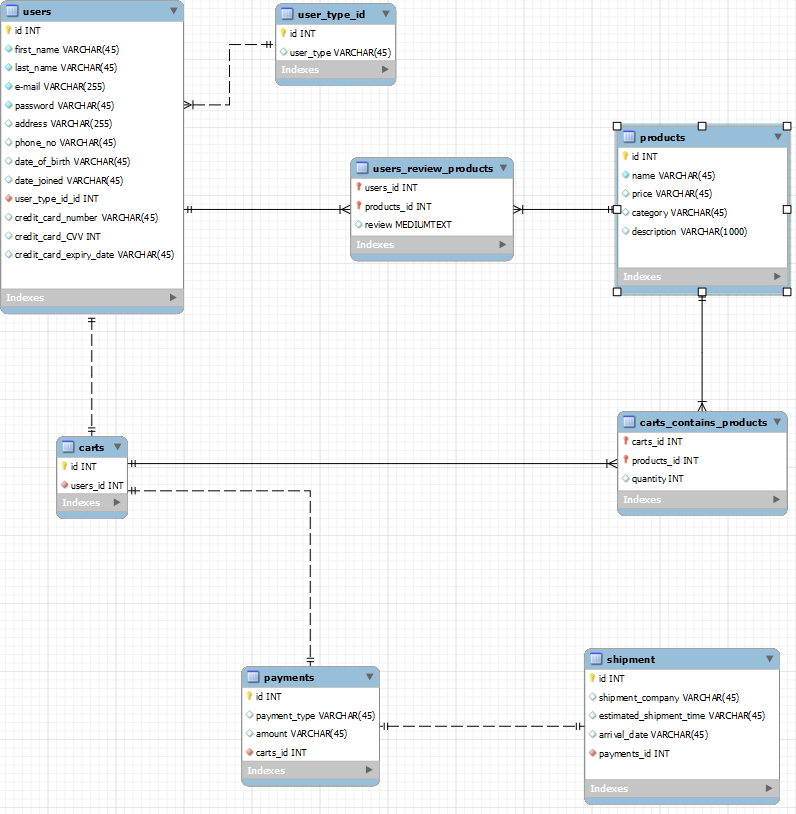
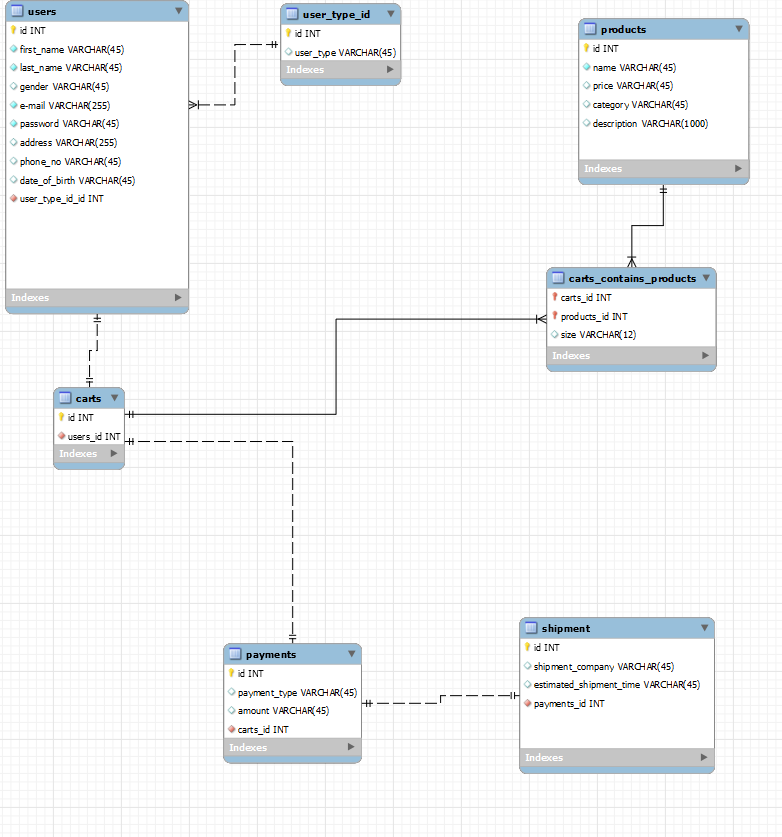
3

diff --git a/shop.php b/shop.php
@@ -57,19 +57,19 @@ $mysqli->close();
               </ul>
               <ul class="navbar-nav ms-auto">               
               <?php
-              if ($_SESSION["user_id"] != null) {
+              if (isset($_SESSION["user_id"]) ) {
                 ?>            
                 <li class="nav-item"><a class="nav-link" href="cart.php"> <i class="fas fa-dolly-flatbed me-1 text-gray"></i>Cart<small class="text-gray fw-normal"><?php echo "(". $count . ")"?></small></a></li>
                 <?php }?>
-                
                 <?php 
-                if ($_SESSION["user_id"] == null) {
+                if (isset($_SESSION["user_id"])) {
                 ?>
-                <li class="nav-item"><a class="nav-link" href="login.php"> <i class="fas fa-user me-1 text-gray fw-normal"></i>Login</a></li>
-                <?php }else{ ?>
-                  <li class="nav-item dropdown"><a class="nav-link droptown-toggle" id="pagesDropdown" href="" data-bs-toggle="dropdown" aria-haspopup="true" aria-expanded="false"> <i class="fas fa-user me-1 text-gray fw-normal"></i><?php echo $_SESSION['user_name'];?></a>
+                <li class="nav-item dropdown"><a class="nav-link droptown-toggle" id="pagesDropdown" href="" data-bs-toggle="dropdown" aria-haspopup="true" aria-expanded="false"> <i class="fas fa-user me-1 text-gray fw-normal"></i><?php echo $_SESSION['user_name'];?></a>
                   <div class="dropdown-menu mt-3 shadow-sm" aria-labelledby="pagesDropdown"><a class="dropdown-item border-0 transition-link" href="signOut.php">Sign Out</a></div>
                   </li>
+                
+                <?php }else{ ?>
+                  <li class="nav-item"><a class="nav-link" href="login.php"> <i class="fas fa-user me-1 text-gray fw-normal"></i>Login</a></li>
                 <?php }?>
               </ul>
             </div>
@@ -160,6 +160,25 @@ $mysqli->close();
                         <div class="product-overlay">
                           <form action="add_to_cart.php" method="POST">
                             <input type="hidden" name="id" value="<?php echo $rows['id'] ;?>">
+                            <label for="size">Size:</label>
+                              <select id="size" name="size">
+                                <option name="s"value="s">S</option>
+                                <option name="m"value="m">M</option>
+                                <option name="l"value="l">L</option>
+                                <option name="xl"value="xl">XL</option>
+                              </select> 
+                              <label for="quantity">Quantity:</label>
+                              <select id="quantity" name="quantity">
+                              <?php
+                                  for ($i=1; $i<=10; $i++)
+                                  {
+                                      ?>
+                                          <option value="<?php echo $i;?>"><?php echo $i;?></option>
+                                      <?php
+                                  }
+                              ?>
+</select>
+
                           <ul class="mb-0 list-inline">
                           <?php $id = $rows['id'];?>
                             <li class="list-inline-item m-0 p-0"><button type = "submit" class="btn btn-sm btn-dark">Add to Cart

diff --git a/shop2.php b/shop2.php
@@ -57,20 +57,20 @@ $mysqli->close();
               </ul>
               <ul class="navbar-nav ms-auto">               
               <?php
-              if ($_SESSION["user_id"] != null) {
-                ?>            
-                <li class="nav-item"><a class="nav-link" href="cart.php"> <i class="fas fa-dolly-flatbed me-1 text-gray"></i>Cart<small class="text-gray fw-normal"><?php echo "(". $count . ")"?></small></a></li>
-                <?php }?>
-                
-                <?php 
-                if ($_SESSION["user_id"] == null) {
-                ?>
+             if (isset($_SESSION["user_id"]) ) {
+              ?>            
+              <li class="nav-item"><a class="nav-link" href="cart.php"> <i class="fas fa-dolly-flatbed me-1 text-gray"></i>Cart<small class="text-gray fw-normal"><?php echo "(". $count . ")"?></small></a></li>
+              <?php }?>
+              <?php 
+              if (isset($_SESSION["user_id"])) {
+              ?>
+              <li class="nav-item dropdown"><a class="nav-link droptown-toggle" id="pagesDropdown" href="" data-bs-toggle="dropdown" aria-haspopup="true" aria-expanded="false"> <i class="fas fa-user me-1 text-gray fw-normal"></i><?php echo $_SESSION['user_name'];?></a>
+                <div class="dropdown-menu mt-3 shadow-sm" aria-labelledby="pagesDropdown"><a class="dropdown-item border-0 transition-link" href="signOut.php">Sign Out</a></div>
+                </li>
+              
+              <?php }else{ ?>
                 <li class="nav-item"><a class="nav-link" href="login.php"> <i class="fas fa-user me-1 text-gray fw-normal"></i>Login</a></li>
-                <?php }else{ ?>
-                  <li class="nav-item dropdown"><a class="nav-link droptown-toggle" id="pagesDropdown" href="" data-bs-toggle="dropdown" aria-haspopup="true" aria-expanded="false"> <i class="fas fa-user me-1 text-gray fw-normal"></i><?php echo $_SESSION['user_name'];?></a>
-                  <div class="dropdown-menu mt-3 shadow-sm" aria-labelledby="pagesDropdown"><a class="dropdown-item border-0 transition-link" href="signOut.php">Sign Out</a></div>
-                  </li>
-                <?php }?>
+              <?php }?>
               </ul>
             </div>
           </nav>
@@ -160,6 +160,13 @@ $mysqli->close();
                         <div class="product-overlay">
                           <form action="add_to_cart.php" method="POST">
                             <input type="hidden" name="id" value="<?php echo $rows['id'] ;?>">
+                            <label for="cars">Size:</label>
+                              <select id="size" name="size">
+                                <option name="s"value="s">S</option>
+                                <option name="m"value="m">M</option>
+                                <option name="l"value="l">L</option>
+                                <option name="xl"value="xl">XL</option>
+                              </select> 
                           <ul class="mb-0 list-inline">
                           <?php $id = $rows['id'];?>
                             <li class="list-inline-item m-0 p-0"><button type = "submit" class="btn btn-sm btn-dark">Add to Cart

diff --git a/shop3.php b/shop3.php
@@ -57,19 +57,19 @@ $mysqli->close();
               </ul>
               <ul class="navbar-nav ms-auto">               
               <?php
-              if ($_SESSION["user_id"] != null) {
+              if (isset($_SESSION["user_id"]) ) {
                 ?>            
                 <li class="nav-item"><a class="nav-link" href="cart.php"> <i class="fas fa-dolly-flatbed me-1 text-gray"></i>Cart<small class="text-gray fw-normal"><?php echo "(". $count . ")"?></small></a></li>
                 <?php }?>
-                
                 <?php 
-                if ($_SESSION["user_id"] == null) {
+                if (isset($_SESSION["user_id"])) {
                 ?>
-                <li class="nav-item"><a class="nav-link" href="login.php"> <i class="fas fa-user me-1 text-gray fw-normal"></i>Login</a></li>
-                <?php }else{ ?>
-                  <li class="nav-item dropdown"><a class="nav-link droptown-toggle" id="pagesDropdown" href="" data-bs-toggle="dropdown" aria-haspopup="true" aria-expanded="false"> <i class="fas fa-user me-1 text-gray fw-normal"></i><?php echo $_SESSION['user_name'];?></a>
+                <li class="nav-item dropdown"><a class="nav-link droptown-toggle" id="pagesDropdown" href="" data-bs-toggle="dropdown" aria-haspopup="true" aria-expanded="false"> <i class="fas fa-user me-1 text-gray fw-normal"></i><?php echo $_SESSION['user_name'];?></a>
                   <div class="dropdown-menu mt-3 shadow-sm" aria-labelledby="pagesDropdown"><a class="dropdown-item border-0 transition-link" href="signOut.php">Sign Out</a></div>
                   </li>
+                
+                <?php }else{ ?>
+                  <li class="nav-item"><a class="nav-link" href="login.php"> <i class="fas fa-user me-1 text-gray fw-normal"></i>Login</a></li>
                 <?php }?>
               </ul>
             </div>
@@ -163,6 +163,13 @@ $mysqli->close();
                         <div class="product-overlay">
                           <form action="add_to_cart.php" method="POST">
                             <input type="hidden" name="id" value="<?php echo $rows['id'] ;?>">
+                            <label for="cars">Size:</label>
+                              <select id="size" name="size">
+                                <option name="s"value="s">S</option>
+                                <option name="m"value="m">M</option>
+                                <option name="l"value="l">L</option>
+                                <option name="xl"value="xl">XL</option>
+                              </select> 
                           <ul class="mb-0 list-inline">
                           <?php $id = $rows['id'];?>
                             <li class="list-inline-item m-0 p-0"><button type = "submit" class="btn btn-sm btn-dark">Add to Cart

diff --git a/shop4.php b/shop4.php
@@ -57,19 +57,19 @@ $mysqli->close();
               </ul>
               <ul class="navbar-nav ms-auto">               
               <?php
-              if ($_SESSION["user_id"] != null) {
+              if (isset($_SESSION["user_id"]) ) {
                 ?>            
                 <li class="nav-item"><a class="nav-link" href="cart.php"> <i class="fas fa-dolly-flatbed me-1 text-gray"></i>Cart<small class="text-gray fw-normal"><?php echo "(". $count . ")"?></small></a></li>
                 <?php }?>
-                
                 <?php 
-                if ($_SESSION["user_id"] == null) {
+                if (isset($_SESSION["user_id"])) {
                 ?>
-                <li class="nav-item"><a class="nav-link" href="login.php"> <i class="fas fa-user me-1 text-gray fw-normal"></i>Login</a></li>
-                <?php }else{ ?>
-                  <li class="nav-item dropdown"><a class="nav-link droptown-toggle" id="pagesDropdown" href="" data-bs-toggle="dropdown" aria-haspopup="true" aria-expanded="false"> <i class="fas fa-user me-1 text-gray fw-normal"></i><?php echo $_SESSION['user_name'];?></a>
+                <li class="nav-item dropdown"><a class="nav-link droptown-toggle" id="pagesDropdown" href="" data-bs-toggle="dropdown" aria-haspopup="true" aria-expanded="false"> <i class="fas fa-user me-1 text-gray fw-normal"></i><?php echo $_SESSION['user_name'];?></a>
                   <div class="dropdown-menu mt-3 shadow-sm" aria-labelledby="pagesDropdown"><a class="dropdown-item border-0 transition-link" href="signOut.php">Sign Out</a></div>
                   </li>
+                
+                <?php }else{ ?>
+                  <li class="nav-item"><a class="nav-link" href="login.php"> <i class="fas fa-user me-1 text-gray fw-normal"></i>Login</a></li>
                 <?php }?>
               </ul>
             </div>
@@ -160,6 +160,13 @@ $mysqli->close();
                         <div class="product-overlay">
                           <form action="add_to_cart.php" method="POST">
                             <input type="hidden" name="id" value="<?php echo $rows['id'] ;?>">
+                            <label for="cars">Size:</label>
+                              <select id="size" name="size">
+                                <option name="s"value="s">S</option>
+                                <option name="m"value="m">M</option>
+                                <option name="l"value="l">L</option>
+                                <option name="xl"value="xl">XL</option>
+                              </select> 
                           <ul class="mb-0 list-inline">
                           <?php $id = $rows['id'];?>
                             <li class="list-inline-item m-0 p-0"><button type = "submit" class="btn btn-sm btn-dark">Add to Cart

diff --git a/cart.php b/cart.php
@@ -52,19 +52,20 @@ $count = mysqli_num_rows($result);
               </ul>
               <ul class="navbar-nav ms-auto">               
               <?php
-              if ($_SESSION["user_id"] != null) {
-                ?>            
-                <li class="nav-item"><a class="nav-link" href="cart.php"> <i class="fas fa-dolly-flatbed me-1 text-gray"></i>Cart<small class="text-gray fw-normal"><?php echo "(". $count . ")"?></small></a></li>
-                <?php }?>
-                <?php 
-                if ($_SESSION["user_id"] == null) {
-                ?>
+             if (isset($_SESSION["user_id"]) ) {
+              ?>            
+              <li class="nav-item"><a class="nav-link" href="cart.php"> <i class="fas fa-dolly-flatbed me-1 text-gray"></i>Cart<small class="text-gray fw-normal"><?php echo "(". $count . ")"?></small></a></li>
+              <?php }?>
+              <?php 
+              if (isset($_SESSION["user_id"])) {
+              ?>
+              <li class="nav-item dropdown"><a class="nav-link droptown-toggle" id="pagesDropdown" href="" data-bs-toggle="dropdown" aria-haspopup="true" aria-expanded="false"> <i class="fas fa-user me-1 text-gray fw-normal"></i><?php echo $_SESSION['user_name'];?></a>
+                <div class="dropdown-menu mt-3 shadow-sm" aria-labelledby="pagesDropdown"><a class="dropdown-item border-0 transition-link" href="signOut.php">Sign Out</a></div>
+                </li>
+              
+              <?php }else{ ?>
                 <li class="nav-item"><a class="nav-link" href="login.php"> <i class="fas fa-user me-1 text-gray fw-normal"></i>Login</a></li>
-                <?php }else{ ?>
-                  <li class="nav-item dropdown"><a class="nav-link droptown-toggle" id="pagesDropdown" href="" data-bs-toggle="dropdown" aria-haspopup="true" aria-expanded="false"> <i class="fas fa-user me-1 text-gray fw-normal"></i><?php echo $_SESSION['user_name'];?></a>
-                  <div class="dropdown-menu mt-3 shadow-sm" aria-labelledby="pagesDropdown"><a class="dropdown-item border-0 transition-link" href="signOut.php">Sign Out</a></div>
-                  </li>
-                <?php }?>
+              <?php }?>
               </ul>
             </div>
           </nav>

diff --git a/detail.php b/detail.php
@@ -52,19 +52,20 @@ $count = mysqli_num_rows($result);
               </ul>
               <ul class="navbar-nav ms-auto">               
               <?php
-              if ($_SESSION["user_id"] != null) {
-                ?>            
-                <li class="nav-item"><a class="nav-link" href="cart.php"> <i class="fas fa-dolly-flatbed me-1 text-gray"></i>Cart<small class="text-gray fw-normal"><?php echo "(". $count . ")"?></small></a></li>
-                <?php }?>
-                <?php 
-                if ($_SESSION["user_id"] == null) {
-                ?>
+             if (isset($_SESSION["user_id"]) ) {
+              ?>            
+              <li class="nav-item"><a class="nav-link" href="cart.php"> <i class="fas fa-dolly-flatbed me-1 text-gray"></i>Cart<small class="text-gray fw-normal"><?php echo "(". $count . ")"?></small></a></li>
+              <?php }?>
+              <?php 
+              if (isset($_SESSION["user_id"])) {
+              ?>
+              <li class="nav-item dropdown"><a class="nav-link droptown-toggle" id="pagesDropdown" href="" data-bs-toggle="dropdown" aria-haspopup="true" aria-expanded="false"> <i class="fas fa-user me-1 text-gray fw-normal"></i><?php echo $_SESSION['user_name'];?></a>
+                <div class="dropdown-menu mt-3 shadow-sm" aria-labelledby="pagesDropdown"><a class="dropdown-item border-0 transition-link" href="signOut.php">Sign Out</a></div>
+                </li>
+              
+              <?php }else{ ?>
                 <li class="nav-item"><a class="nav-link" href="login.php"> <i class="fas fa-user me-1 text-gray fw-normal"></i>Login</a></li>
-                <?php }else{ ?>
-                  <li class="nav-item dropdown"><a class="nav-link droptown-toggle" id="pagesDropdown" href="" data-bs-toggle="dropdown" aria-haspopup="true" aria-expanded="false"> <i class="fas fa-user me-1 text-gray fw-normal"></i><?php echo $_SESSION['user_name'];?></a>
-                  <div class="dropdown-menu mt-3 shadow-sm" aria-labelledby="pagesDropdown"><a class="dropdown-item border-0 transition-link" href="signOut.php">Sign Out</a></div>
-                  </li>
-                <?php }?>
+              <?php }?>
               </ul>
             </div>
           </nav>

diff --git a/index.php b/index.php
@@ -1,6 +1,7 @@
 
 <?php
 session_start();
+
 include("connection.php");
 $sql = "SELECT * FROM carts_contains_products;";
 $result = $mysqli->query($sql);
@@ -57,18 +58,19 @@ $count = mysqli_num_rows($result);
               </ul>
               <ul class="navbar-nav ms-auto">   
                 <?php
-              if ($_SESSION["user_id"] != null) {
+              if (isset($_SESSION["user_id"]) ) {
                 ?>            
                 <li class="nav-item"><a class="nav-link" href="cart.php"> <i class="fas fa-dolly-flatbed me-1 text-gray"></i>Cart<small class="text-gray fw-normal"><?php echo "(". $count . ")"?></small></a></li>
                 <?php }?>
                 <?php 
-                if ($_SESSION["user_id"] == null) {
+                if (isset($_SESSION["user_id"])) {
                 ?>
-                <li class="nav-item"><a class="nav-link" href="login.php"> <i class="fas fa-user me-1 text-gray fw-normal"></i>Login</a></li>
-                <?php }else{ ?>
-                  <li class="nav-item dropdown"><a class="nav-link droptown-toggle" id="pagesDropdown" href="" data-bs-toggle="dropdown" aria-haspopup="true" aria-expanded="false"> <i class="fas fa-user me-1 text-gray fw-normal"></i><?php echo $_SESSION['user_name'];?></a>
+                <li class="nav-item dropdown"><a class="nav-link droptown-toggle" id="pagesDropdown" href="" data-bs-toggle="dropdown" aria-haspopup="true" aria-expanded="false"> <i class="fas fa-user me-1 text-gray fw-normal"></i><?php echo $_SESSION['user_name'];?></a>
                   <div class="dropdown-menu mt-3 shadow-sm" aria-labelledby="pagesDropdown"><a class="dropdown-item border-0 transition-link" href="signOut.php">Sign Out</a></div>
                   </li>
+                
+                <?php }else{ ?>
+                  <li class="nav-item"><a class="nav-link" href="login.php"> <i class="fas fa-user me-1 text-gray fw-normal"></i>Login</a></li>
                 <?php }?>
               </ul>
             </div>

diff --git a/checkout.php b/checkout.php
@@ -52,18 +52,19 @@ $count = mysqli_num_rows($result);
               </ul>
               <ul class="navbar-nav ms-auto">               
               <?php
-              if ($_SESSION["user_id"] != null) {
+              if (isset($_SESSION["user_id"]) ) {
                 ?>            
                 <li class="nav-item"><a class="nav-link" href="cart.php"> <i class="fas fa-dolly-flatbed me-1 text-gray"></i>Cart<small class="text-gray fw-normal"><?php echo "(". $count . ")"?></small></a></li>
                 <?php }?>
                 <?php 
-                if ($_SESSION["user_id"] == null) {
+                if (isset($_SESSION["user_id"])) {
                 ?>
-                <li class="nav-item"><a class="nav-link" href="login.php"> <i class="fas fa-user me-1 text-gray fw-normal"></i>Login</a></li>
-                <?php }else{ ?>
-                  <li class="nav-item dropdown"><a class="nav-link droptown-toggle" id="pagesDropdown" href="" data-bs-toggle="dropdown" aria-haspopup="true" aria-expanded="false"> <i class="fas fa-user me-1 text-gray fw-normal"></i><?php echo $_SESSION['user_name'];?></a>
+                <li class="nav-item dropdown"><a class="nav-link droptown-toggle" id="pagesDropdown" href="" data-bs-toggle="dropdown" aria-haspopup="true" aria-expanded="false"> <i class="fas fa-user me-1 text-gray fw-normal"></i><?php echo $_SESSION['user_name'];?></a>
                   <div class="dropdown-menu mt-3 shadow-sm" aria-labelledby="pagesDropdown"><a class="dropdown-item border-0 transition-link" href="signOut.php">Sign Out</a></div>
                   </li>
+                
+                <?php }else{ ?>
+                  <li class="nav-item"><a class="nav-link" href="login.php"> <i class="fas fa-user me-1 text-gray fw-normal"></i>Login</a></li>
                 <?php }?>
               </ul>
             </div>

diff --git a/add_to_cart.php b/add_to_cart.php
@@ -7,9 +7,9 @@ if ($_SESSION["user_id"] == null) {
 }
 $id = $_POST['id'];
 $cart_id =  $_SESSION["cart_id"];
-$quantity = 1;
-$query = $mysqli->prepare("INSERT INTO carts_contains_products ( carts_id, products_id, quantity ) VALUES(?,?,?)");
-$query->bind_param("iii", $cart_id, $id, $quantity); 
+$size = $_POST['size'];
+$query = $mysqli->prepare("INSERT INTO carts_contains_products ( carts_id, products_id, size ) VALUES(?,?,?)");
+$query->bind_param("iii", $cart_id, $id, $size); 
 $query->execute();
 $query->close();
 header("Location: cart.php");
